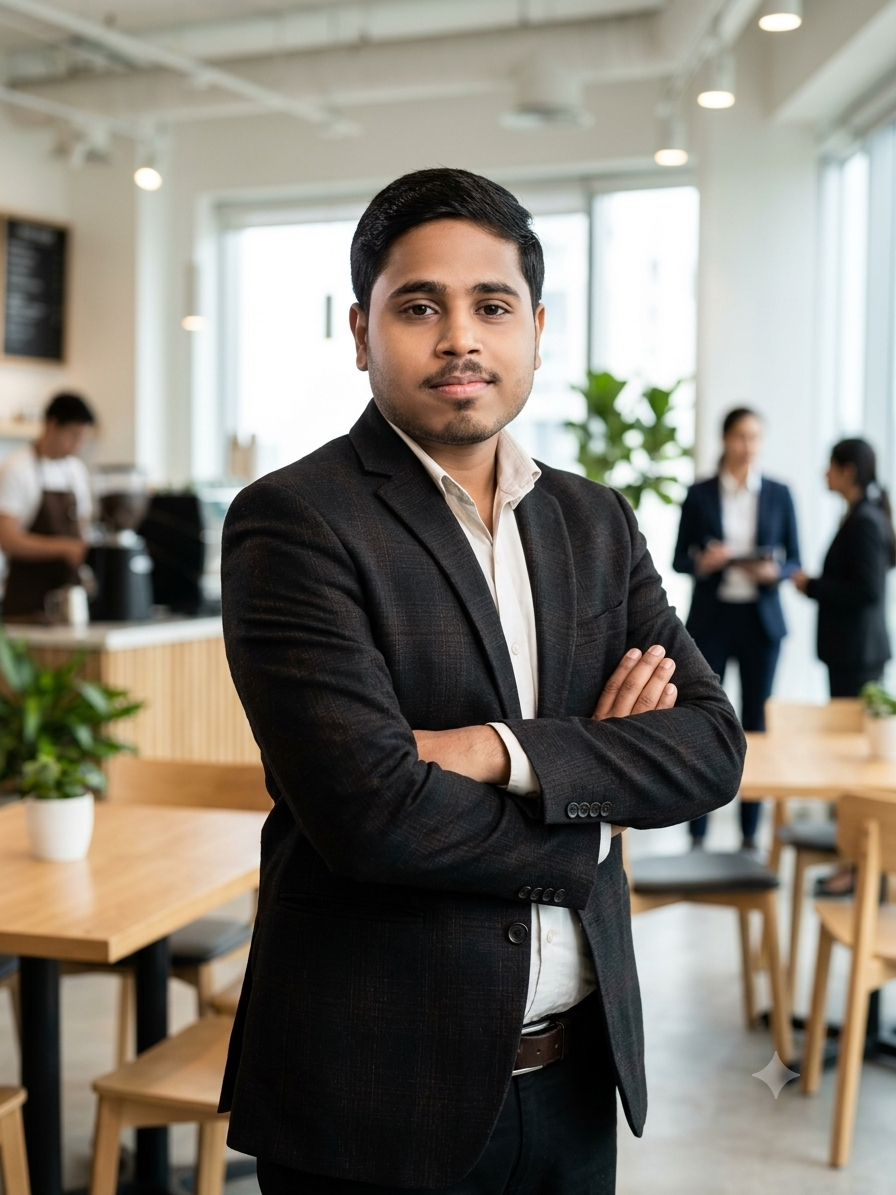
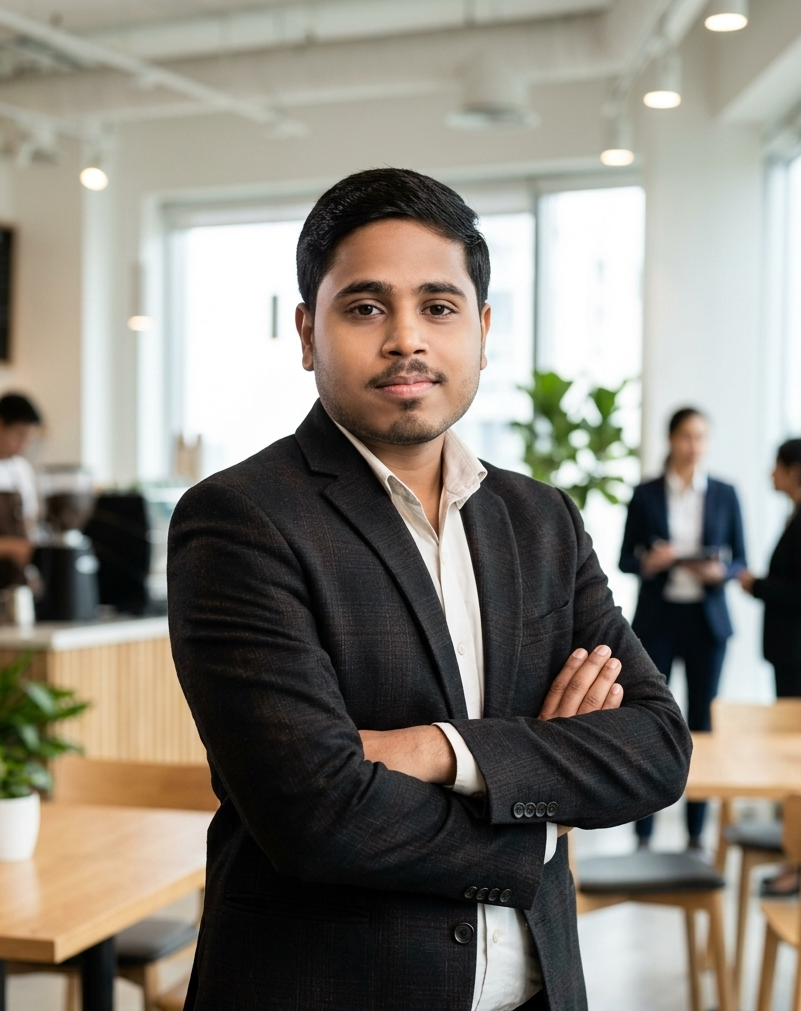
Describe your Changes

diff --git a/src/pages/AdminDashboard.tsx b/src/pages/AdminDashboard.tsx
@@ -47,7 +47,7 @@ const STATUS_STYLES: Record<string, string> = {
   confirmed: 'bg-blue-100 text-blue-700 dark:bg-blue-500/20 dark:text-blue-400',
   completed: 'bg-green-100 text-green-700 dark:bg-green-500/20 dark:text-green-400',
   cancelled: 'bg-red-100 text-red-700 dark:bg-red-500/20 dark:text-red-400',
-  new: 'bg-electric-100 text-electric-700 dark:bg-electric-500/20 dark:text-electric-400',
+  new: 'bg-cyan-100 text-cyan-700 dark:bg-cyan-500/20 dark:text-cyan-400',
   read: 'bg-ink-100 text-ink-600 dark:bg-white/10 dark:text-ink-300',
   archived: 'bg-ink-100 text-ink-500 dark:bg-white/5 dark:text-ink-500',
 };
@@ -82,7 +82,7 @@ export default function AdminDashboard() {
   if (loading) {
     return (
       <div className="min-h-screen flex items-center justify-center pt-20">
-        <Loader2 size={32} className="animate-spin text-electric-600" />
+        <Loader2 size={32} className="animate-spin text-cyan-600" />
       </div>
     );
   }
@@ -150,8 +150,8 @@ export default function AdminDashboard() {
               onClick={() => { setTab(t.id); setSearch(''); setFilter('all'); }}
               className={`flex items-center gap-2 px-4 py-2.5 rounded-xl text-sm font-medium transition-all whitespace-nowrap ${
                 tab === t.id
-                  ? 'bg-electric-600 text-white shadow-lg shadow-electric-600/30'
-                  : 'glass text-ink-600 dark:text-ink-300 hover:text-electric-600'
+                  ? 'bg-cyan-600 text-white shadow-lg shadow-cyan-600/30'
+                  : 'glass text-ink-600 dark:text-ink-300 hover:text-cyan-600'
               }`}
             >
               <t.icon size={16} /> {t.label}
@@ -165,7 +165,7 @@ export default function AdminDashboard() {
             <motion.div key="overview" initial={{ opacity: 0, y: 10 }} animate={{ opacity: 1, y: 0 }} exit={{ opacity: 0, y: -10 }} className="space-y-6">
               <div className="grid grid-cols-2 lg:grid-cols-4 gap-4">
                 {[
-                  { label: 'Total Users', value: users.length, icon: Users, color: 'electric' },
+                  { label: 'Total Users', value: users.length, icon: Users, color: 'cyan' },
                   { label: 'Total Appointments', value: appointments.length, icon: Calendar, color: 'blue' },
                   { label: 'Pending', value: pendingAppts, icon: Clock, color: 'gold' },
                   { label: 'Messages', value: contacts.length, icon: Mail, color: 'green' },
@@ -177,7 +177,7 @@ export default function AdminDashboard() {
                         <p className="font-display text-2xl md:text-3xl font-bold text-ink-900 dark:text-white mt-1">{s.value}</p>
                       </div>
                       <div className={`w-11 h-11 rounded-xl flex items-center justify-center ${
-                        s.color === 'electric' ? 'bg-electric-600/10 text-electric-600' :
+                        s.color === 'cyan' ? 'bg-cyan-600/10 text-cyan-600' :
                         s.color === 'blue' ? 'bg-blue-500/10 text-blue-500' :
                         s.color === 'gold' ? 'bg-gold-500/10 text-gold-600' :
                         'bg-green-500/10 text-green-600'
@@ -193,7 +193,7 @@ export default function AdminDashboard() {
               <div className="grid lg:grid-cols-2 gap-4">
                 <div className="card-base p-5">
                   <h3 className="font-display font-bold text-ink-900 dark:text-white mb-3">Recent Appointments</h3>
-                  {dataLoading ? <div className="flex justify-center py-6"><Loader2 size={20} className="animate-spin text-electric-600" /></div> :
+                  {dataLoading ? <div className="flex justify-center py-6"><Loader2 size={20} className="animate-spin text-cyan-600" /></div> :
                    appointments.length === 0 ? <p className="text-sm text-ink-500 text-center py-6">No appointments</p> : (
                     <div className="space-y-2">
                       {appointments.slice(0, 4).map((a) => (
@@ -210,7 +210,7 @@ export default function AdminDashboard() {
                 </div>
                 <div className="card-base p-5">
                   <h3 className="font-display font-bold text-ink-900 dark:text-white mb-3">Recent Messages</h3>
-                  {dataLoading ? <div className="flex justify-center py-6"><Loader2 size={20} className="animate-spin text-electric-600" /></div> :
+                  {dataLoading ? <div className="flex justify-center py-6"><Loader2 size={20} className="animate-spin text-cyan-600" /></div> :
                    contacts.length === 0 ? <p className="text-sm text-ink-500 text-center py-6">No messages</p> : (
                     <div className="space-y-2">
                       {contacts.slice(0, 4).map((c) => (
@@ -248,7 +248,7 @@ export default function AdminDashboard() {
                 </div>
 
                 {dataLoading ? (
-                  <div className="flex justify-center py-12"><Loader2 size={24} className="animate-spin text-electric-600" /></div>
+                  <div className="flex justify-center py-12"><Loader2 size={24} className="animate-spin text-cyan-600" /></div>
                 ) : filteredAppointments.length === 0 ? (
                   <div className="text-center py-12">
                     <Calendar size={36} className="text-ink-300 dark:text-ink-600 mx-auto mb-2" />
@@ -309,7 +309,7 @@ export default function AdminDashboard() {
                 </div>
 
                 {dataLoading ? (
-                  <div className="flex justify-center py-12"><Loader2 size={24} className="animate-spin text-electric-600" /></div>
+                  <div className="flex justify-center py-12"><Loader2 size={24} className="animate-spin text-cyan-600" /></div>
                 ) : filteredContacts.length === 0 ? (
                   <div className="text-center py-12">
                     <Mail size={36} className="text-ink-300 dark:text-ink-600 mx-auto mb-2" />
@@ -331,7 +331,7 @@ export default function AdminDashboard() {
                         <p className="text-sm text-ink-600 dark:text-ink-300 mt-2">{c.message}</p>
                         <div className="flex gap-2 mt-3">
                           {c.status === 'new' && (
-                            <button onClick={() => updateContactStatus(c.id, 'read')} className="text-xs px-3 py-1.5 rounded-lg bg-electric-600/10 text-electric-600 hover:bg-electric-600/20 font-medium">
+                            <button onClick={() => updateContactStatus(c.id, 'read')} className="text-xs px-3 py-1.5 rounded-lg bg-cyan-600/10 text-cyan-600 hover:bg-cyan-600/20 font-medium">
                               Mark Read
                             </button>
                           )}
@@ -358,7 +358,7 @@ export default function AdminDashboard() {
               <div className="card-base p-5">
                 <h3 className="font-display font-bold text-ink-900 dark:text-white mb-4">Registered Users</h3>
                 {dataLoading ? (
-                  <div className="flex justify-center py-12"><Loader2 size={24} className="animate-spin text-electric-600" /></div>
+                  <div className="flex justify-center py-12"><Loader2 size={24} className="animate-spin text-cyan-600" /></div>
                 ) : users.length === 0 ? (
                   <div className="text-center py-12">
                     <Users size={36} className="text-ink-300 dark:text-ink-600 mx-auto mb-2" />
@@ -380,7 +380,7 @@ export default function AdminDashboard() {
                           <tr key={u.id} className="border-b border-ink-100 dark:border-white/5">
                             <td className="py-3 pr-4">
                               <div className="flex items-center gap-2">
-                                <div className="w-8 h-8 rounded-full bg-gradient-to-br from-electric-600 to-electric-400 flex items-center justify-center text-white text-xs font-semibold">
+                                <div className="w-8 h-8 rounded-full bg-gradient-to-br from-cyan-600 to-cyan-400 flex items-center justify-center text-white text-xs font-semibold">
                                   {(u.full_name || 'U')[0].toUpperCase()}
                                 </div>
                                 <span className="font-medium text-ink-900 dark:text-white">{u.full_name || 'Unnamed'}</span>
@@ -388,7 +388,7 @@ export default function AdminDashboard() {
                             </td>
                             <td className="py-3 pr-4 text-ink-500">{u.phone || '—'}</td>
                             <td className="py-3 pr-4">
-                              <span className={`badge text-xs ${u.role === 'admin' ? 'bg-gold-500/10 text-gold-600' : 'bg-electric-600/10 text-electric-600'}`}>
+                              <span className={`badge text-xs ${u.role === 'admin' ? 'bg-gold-500/10 text-gold-600' : 'bg-cyan-600/10 text-cyan-600'}`}>
                                 {u.role}
                               </span>
                             </td>

diff --git a/src/pages/UserDashboard.tsx b/src/pages/UserDashboard.tsx
@@ -52,7 +52,7 @@ export default function UserDashboard() {
   if (loading) {
     return (
       <div className="min-h-screen flex items-center justify-center pt-20">
-        <Loader2 size={32} className="animate-spin text-electric-600" />
+        <Loader2 size={32} className="animate-spin text-cyan-600" />
       </div>
     );
   }
@@ -133,8 +133,8 @@ export default function UserDashboard() {
               onClick={() => setTab(t.id)}
               className={`flex items-center gap-2 px-4 py-2.5 rounded-xl text-sm font-medium transition-all whitespace-nowrap ${
                 tab === t.id
-                  ? 'bg-electric-600 text-white shadow-lg shadow-electric-600/30'
-                  : 'glass text-ink-600 dark:text-ink-300 hover:text-electric-600'
+                  ? 'bg-cyan-600 text-white shadow-lg shadow-cyan-600/30'
+                  : 'glass text-ink-600 dark:text-ink-300 hover:text-cyan-600 dark:bg-yellow-600'
               }`}
             >
               <t.icon size={16} /> {t.label}
@@ -148,7 +148,7 @@ export default function UserDashboard() {
             <motion.div key="overview" initial={{ opacity: 0, y: 10 }} animate={{ opacity: 1, y: 0 }} exit={{ opacity: 0, y: -10 }} className="space-y-6">
               <div className="grid grid-cols-1 sm:grid-cols-3 gap-4">
                 {[
-                  { label: 'Total Appointments', value: appointments.length, icon: Calendar, color: 'electric' },
+                  { label: 'Total Appointments', value: appointments.length, icon: Calendar, color: 'cyan' },
                   { label: 'Pending', value: pendingCount, icon: Clock, color: 'gold' },
                   { label: 'Confirmed', value: confirmedCount, icon: CheckCircle, color: 'green' },
                 ].map((s) => (
@@ -159,7 +159,7 @@ export default function UserDashboard() {
                         <p className="font-display text-3xl font-bold text-ink-900 dark:text-white mt-1">{s.value}</p>
                       </div>
                       <div className={`w-12 h-12 rounded-xl flex items-center justify-center ${
-                        s.color === 'electric' ? 'bg-electric-600/10 text-electric-600' :
+                        s.color === 'cyan' ? 'bg-cyan-600/10 text-cyan-600' :
                         s.color === 'gold' ? 'bg-gold-500/10 text-gold-600' :
                         'bg-green-500/10 text-green-600'
                       }`}>
@@ -173,7 +173,7 @@ export default function UserDashboard() {
               <div className="card-base p-6">
                 <h3 className="font-display font-bold text-ink-900 dark:text-white mb-4">Recent Appointments</h3>
                 {apptLoading ? (
-                  <div className="flex justify-center py-8"><Loader2 size={24} className="animate-spin text-electric-600" /></div>
+                  <div className="flex justify-center py-8"><Loader2 size={24} className="animate-spin text-cyan-600" /></div>
                 ) : appointments.length === 0 ? (
                   <p className="text-sm text-ink-500 dark:text-ink-400 text-center py-8">No appointments yet. Book your first one!</p>
                 ) : (
@@ -203,7 +203,7 @@ export default function UserDashboard() {
                   </button>
                 </div>
                 {apptLoading ? (
-                  <div className="flex justify-center py-8"><Loader2 size={24} className="animate-spin text-electric-600" /></div>
+                  <div className="flex justify-center py-8"><Loader2 size={24} className="animate-spin text-cyan-600" /></div>
                 ) : appointments.length === 0 ? (
                   <div className="text-center py-12">
                     <CalendarDays size={40} className="text-ink-300 dark:text-ink-600 mx-auto mb-3" />
@@ -215,8 +215,8 @@ export default function UserDashboard() {
                     {appointments.map((a) => (
                       <div key={a.id} className="flex flex-col sm:flex-row sm:items-center justify-between gap-3 p-4 rounded-xl bg-ink-50 dark:bg-white/5 border border-ink-100 dark:border-white/5">
                         <div className="flex items-center gap-3">
-                          <div className="w-10 h-10 rounded-xl bg-electric-600/10 flex items-center justify-center flex-shrink-0">
-                            <Calendar size={18} className="text-electric-600" />
+                          <div className="w-10 h-10 rounded-xl bg-cyan-600/10 flex items-center justify-center flex-shrink-0">
+                            <Calendar size={18} className="text-cyan-600" />
                           </div>
                           <div>
                             <p className="text-sm font-semibold text-ink-900 dark:text-white">{a.service}</p>
@@ -327,8 +327,8 @@ export default function UserDashboard() {
                           onClick={() => setBooking((b) => ({ ...b, time: t }))}
                           className={`px-2 py-2 rounded-lg text-xs font-medium transition-all ${
                             booking.time === t
-                              ? 'bg-electric-600 text-white'
-                              : 'bg-ink-100 dark:bg-white/5 text-ink-600 dark:text-ink-300 hover:bg-electric-600/10'
+                              ? 'bg-cyan-600 text-white'
+                              : 'bg-ink-100 dark:bg-white/5 text-ink-600 dark:text-ink-300 hover:bg-cyan-600/10'
                           }`}
                         >
                           {t}

diff --git a/src/components/chatbot/Chatbot.tsx b/src/components/chatbot/Chatbot.tsx
@@ -65,7 +65,7 @@ export default function Chatbot() {
             animate={{ scale: 1, opacity: 1 }}
             exit={{ scale: 0, opacity: 0 }}
             onClick={() => { setOpen(true); setMinimized(false); }}
-            className="fixed bottom-6 right-6 z-50 flex items-center gap-2 px-5 py-3.5 rounded-full bg-electric-600 text-white shadow-lg shadow-electric-600/40 hover:shadow-xl hover:shadow-electric-600/50 hover:scale-105 transition-all"
+            className="fixed bottom-6 right-6 z-50 flex items-center gap-2 px-5 py-3.5 rounded-full bg-cyan-600 text-white shadow-lg shadow-cyan-600/40 hover:shadow-xl hover:shadow-cyan-600/50 hover:scale-105 transition-all"
             aria-label="Open chat"
           >
             <MessageCircle size={22} />
@@ -91,12 +91,12 @@ export default function Chatbot() {
             style={{ height: minimized ? 'auto' : 'min(560px, calc(100vh - 3rem))' }}
           >
             {/* Header */}
-            <div className="flex items-center justify-between px-4 py-3 bg-electric-600 text-white">
+            <div className="flex items-center justify-between px-4 py-3 bg-cyan-600 text-white">
               <div className="flex items-center gap-2.5">
                 <Logo size={24} showText={false} />
                 <div>
                   <p className="font-display font-semibold text-sm">TechGems Assistant</p>
-                  <p className="text-xs text-electric-100 flex items-center gap-1">
+                  <p className="text-xs text-cyan-100 flex items-center gap-1">
                     <span className="w-1.5 h-1.5 bg-green-400 rounded-full" /> Online
                   </p>
                 </div>
@@ -125,7 +125,7 @@ export default function Chatbot() {
                       <div
                         className={`max-w-[80%] px-4 py-2.5 rounded-2xl text-sm ${
                           msg.role === 'user'
-                            ? 'bg-electric-600 text-white rounded-br-md'
+                            ? 'bg-cyan-600 text-white rounded-br-md'
                             : 'bg-ink-100 dark:bg-white/10 text-ink-800 dark:text-ink-100 rounded-bl-md'
                         }`}
                       >
@@ -160,11 +160,11 @@ export default function Chatbot() {
                       onChange={(e) => setInput(e.target.value)}
                       onKeyDown={(e) => e.key === 'Enter' && sendMessage()}
                       placeholder="Type your message..."
-                      className="flex-1 px-3 py-2.5 rounded-xl bg-ink-50 dark:bg-white/5 border border-ink-200 dark:border-white/10 text-sm text-ink-900 dark:text-white placeholder-ink-400 focus:outline-none focus:ring-2 focus:ring-electric-600/50"
+                      className="flex-1 px-3 py-2.5 rounded-xl bg-ink-50 dark:bg-white/5 border border-ink-200 dark:border-white/10 text-sm text-ink-900 dark:text-white placeholder-ink-400 focus:outline-none focus:ring-2 focus:ring-cyan-600/50"
                     />
                     <button
                       onClick={sendMessage}
-                      className="p-2.5 rounded-xl bg-electric-600 text-white hover:bg-electric-700 transition-colors"
+                      className="p-2.5 rounded-xl bg-cyan-600 text-white hover:bg-cyan-700 transition-colors"
                       aria-label="Send"
                     >
                       <Send size={18} />

diff --git a/src/lib/data.ts b/src/lib/data.ts
@@ -23,11 +23,11 @@ export const SERVICES = [
     features: ['LLM Integration', 'Predictive Models', 'Computer Vision', 'Process Automation'],
   },
   {
-    id: 'cloud-storage',
-    title: 'Cloud & Storage',
-    description: 'Secure and scalable cloud infrastructure and storage solutions.',
-    icon: 'Cloud',
-    features: ['AWS & GCP', 'Serverless', 'Auto-scaling', 'Data Security'],
+    id: 'Offline/Online Workshop',
+    title: 'Offline/Online Workshop',
+    description: 'Practical, hands-on training for teams and individuals in trending core technologies',
+    icon: 'Users',
+    features: ['Artificial Intelligence', 'Machine Learning', 'Web Development'],
   },
   {
     id: 'ui-ux-design',
@@ -124,7 +124,7 @@ export const TEAM_MEMBERS = [
     name: 'Saksham Singh',
     role: 'Client Support Executive',
     bio: 'Dedicated support professional driving customer satisfaction, rapid resolution, and seamless experiences.',
-    image: 'src/components/assets/team/Saksham-photo.png',
+    image: 'src/components/assets/team/Saksham-photo.jpeg',
     
     socials: {
       linkedin: "https://www.linkedin.com/in/saksham-singh-7671a12a7?",
@@ -148,10 +148,10 @@ export const TEAM_MEMBERS = [
     name: 'Bhumi Singh',
     role: 'Frontend Developer',
     bio: 'Specializing in building responsive, accessible, and high-performance web applications that deliver seamless user experiences.',
-    image: 'src/components/assets/favicon.png', 
+    image: 'src/components/assets/team/Bhumi-photo.png', 
   
     socials: {
-      linkedin: "-https://www.linkedin.com/in/bhumi-singh-33605335a",
+      linkedin: "https://www.linkedin.com/in/bhumi-singh-33605335a",
       github: "https://github.com/Bhumi678",
       email: "bhumisingh123b@gmail.com",
     },  
@@ -160,12 +160,12 @@ export const TEAM_MEMBERS = [
     name: 'Gaurav Gupta',
     role: 'Backend Developer',
     bio: 'Focused on architecting scalable APIs, optimizing database performance, and building secure systems.',
-    image: 'src/components/assets/favicon.png', 
+    image: 'src/components/assets/team/Gaurav-photo.png', 
   
     socials: {
-      linkedin: "-https://www.linkedin.com/in/bhumi-singh-33605335a",
-      github: "https://github.com/Bhumi678",
-      email: "bhumisingh123b@gmail.com",
+      linkedin: "https://www.linkedin.com/in/gaurav-gupta-b203171b5",
+      github: "https://github.com/gaurav19-hack",
+      email: "gauravgupta2723@gmail.com",
     },  
   },
 ] as const;
